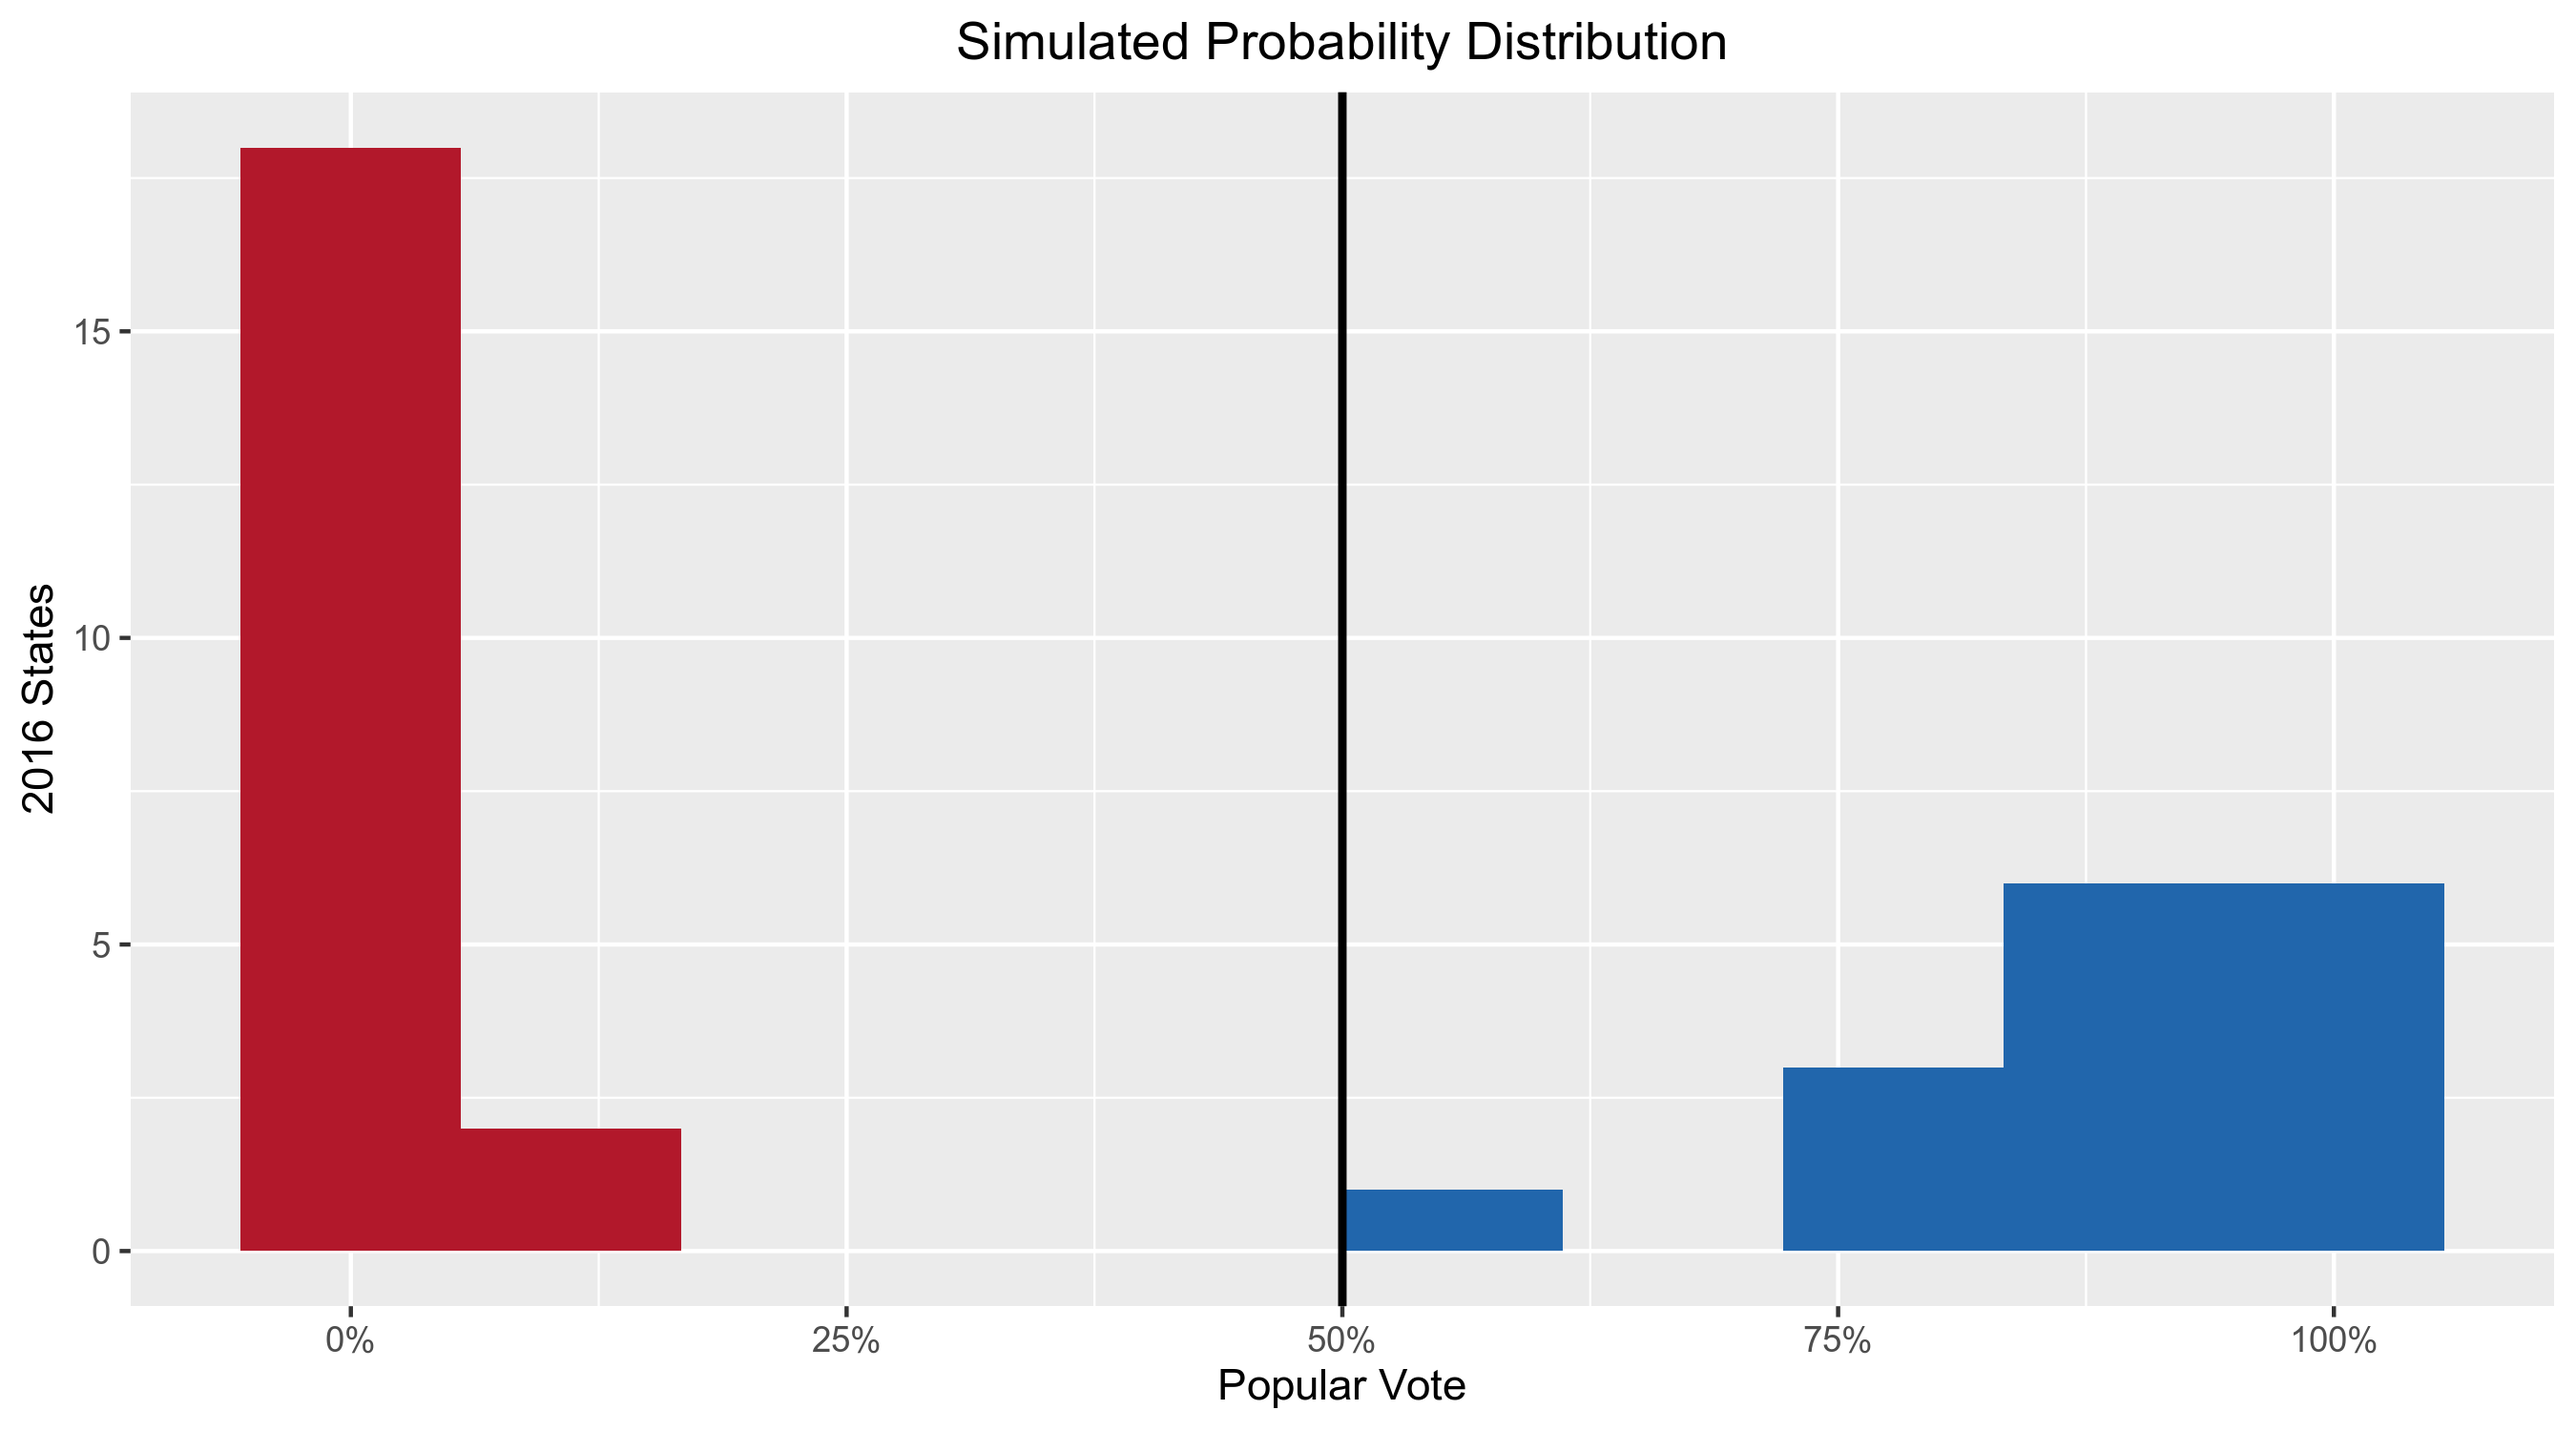
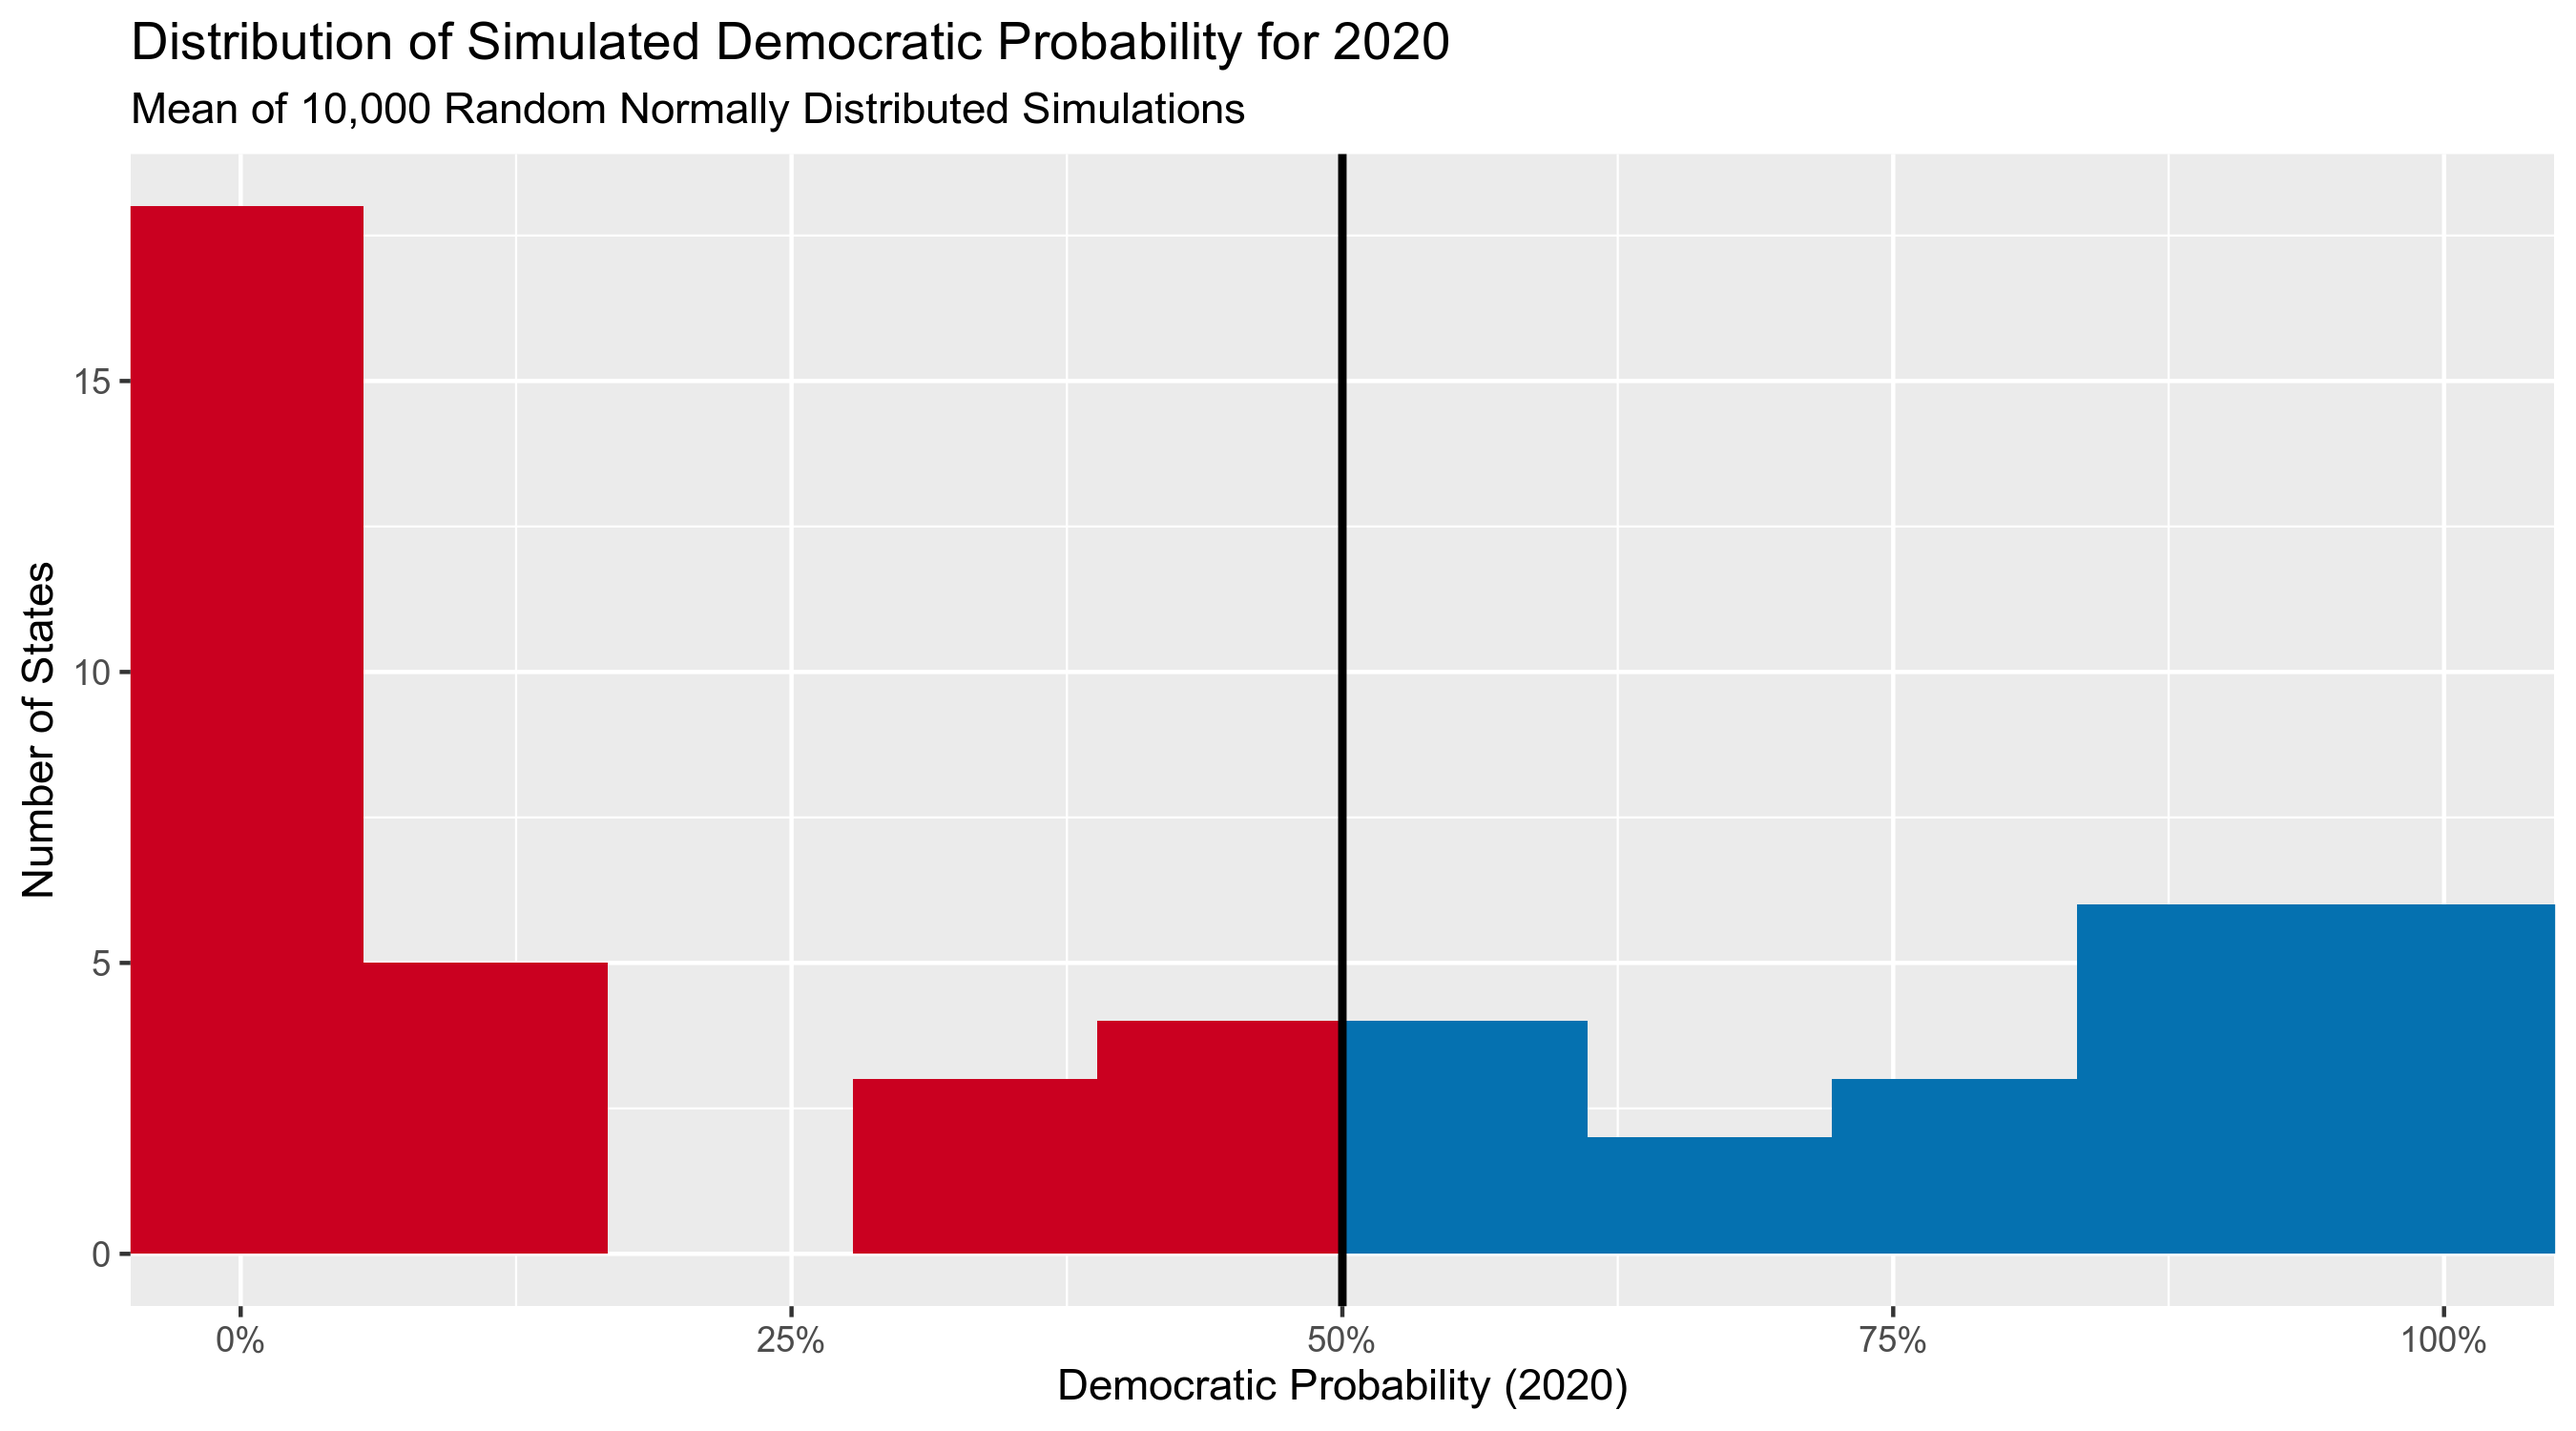
Use MIT past and NARA votes

diff --git a/docs/sim_college.md b/docs/sim_college.md
@@ -97,12 +97,19 @@ democratic share of the major party votes. If that share is greater than
 
 ``` r
 market_prices <-
+  # query predictit api
   fromJSON(txt = "https://www.predictit.org/api/marketdata/all/") %>%
+  # use markets tree
   use_series(markets) %>%
+  # keep only battleground markets
   filter(str_detect(name, "Which party will win (.*) in the 2020 presidential election?")) %>%
+  # expose contracts nests has new rows
   unnest(contracts, names_repair = "unique") %>%
+  # keep only dem contracts
   filter(shortName...11 == "Democratic") %>%
+  # select state and latest price
   select(state = shortName...3, price = lastTradePrice) %>%
+  # extract state abbreviation from question
   mutate(state = str_extract(state, "[:upper:]{2}")) %>% 
   arrange(price)
 ```
@@ -129,17 +136,24 @@ Presidential election since 1976. This file can be read using
 `dataverse::get_file()`.
 
 ``` r
-past_elections <- get_file(
+past_elections <-
+  # get MIT dataverse file
+  get_file(
     file = "1976-2016-president.tab", 
     dataset = "doi:10.7910/DVN/42MVDX",
-  ) %>% 
+  ) %>%
+  # parse raw as data frame
   read_csv(col_types = cols()) %>% 
-  rename(votes = candidatevotes) %>% 
-  filter(party %in% c("democrat", "republican"), writein == FALSE) %>% 
+  rename(votes = candidatevotes) %>%
+  # keep only major candidates
+  filter(writein == FALSE) %>% 
+  filter(party %in% c("democrat", "republican")) %>% 
+  # calculate dem share of major vote
   group_by(year, state_po) %>% 
-  mutate(prop = votes/sum(votes)) %>%
+  mutate(share = votes/sum(votes)) %>%
+  # keep only dems
   filter(party == "democrat") %>% 
-  select(year, state = state_po, prop)
+  select(year, state = state_po, share)
 
 # MIT Election Data and Science Lab, 2017, "1976-2016-president.tab"
 # https://doi.org/10.7910/DVN/42MVDX/MFU99O, Harvard Dataverse, V5
@@ -152,12 +166,13 @@ party’s share of the vote in the last 11 elections.
 
 ``` r
 state_sd <- past_elections %>% 
+  # calculate std dev
   group_by(state) %>% 
-  summarize(sd = sd(prop))
+  summarize(sd = sd(share))
 ```
 
 ``` r
-left_join(usa_map, state_sd) %>%
+left_join(usa_map, state_sd, by = "state") %>%
   filter(state != "DC") %>% 
   ggplot(mapping = aes(x = long, y = lat, group = group)) +
   geom_polygon(color = "black", mapping = aes(fill = sd)) +
@@ -184,7 +199,8 @@ left_join(usa_map, state_sd) %>%
 ![](sim_college_files/figure-gfm/map_sd-1.png)<!-- -->
 
 ``` r
-last_election <- past_elections %>% 
+last_election <- past_elections %>%
+  # keep only last election
   filter(year == 2016)
 ```
 
@@ -206,10 +222,13 @@ those states *with* 2020 markets and those without.
 ![](sim_college_files/figure-gfm/vote_range-1.png)<!-- -->
 
 ``` r
-last_election <- last_election %>% 
+last_election <- last_election %>%
+  # add state std devs
   left_join(state_sd) %>%
-  rowwise() %>% 
-  mutate(prob = mean(rnorm(10000, prop, sd) > 0.50))
+  rowwise() %>%
+  # calculate win rate of simulations
+  mutate(prob = mean(rnorm(10000, share, sd) > 0.50)) %>% 
+  ungroup()
 ```
 
 If we visualize this process, we can see how the 2016 result and a
@@ -234,20 +253,25 @@ simulated elections won by the democrat. Below, we see how this is done
 by simulating the Connecticut election 60 times.
 
 ``` r
-(ex_prop <- last_election$prop[last_election$state == "CT"])
+# find last share
+(ex_share <- last_election$share[last_election$state == "CT"])
 #> [1] 0.5714155
+# find std dev
 (ex_sd <- last_election$sd[last_election$state == "CT"])
 #> [1] 0.07423502
-(ex_sims <- round(x = rnorm(n = 60, mean = ex_prop, sd = ex_sd), digits = 2))
+# simulate 60 elections
+(ex_sims <- round(x = rnorm(n = 60, mean = ex_share, sd = ex_sd), digits = 2))
 #>  [1] 0.56 0.62 0.63 0.62 0.53 0.59 0.55 0.60 0.43 0.62 0.54 0.58 0.61 0.62 0.48 0.63 0.58 0.64 0.62
 #> [20] 0.69 0.50 0.59 0.42 0.58 0.63 0.55 0.50 0.71 0.57 0.49 0.66 0.52 0.56 0.46 0.60 0.59 0.58 0.55
 #> [39] 0.46 0.69 0.54 0.63 0.67 0.52 0.58 0.65 0.55 0.68 0.56 0.50 0.57 0.48 0.54 0.59 0.49 0.76 0.71
 #> [58] 0.54 0.51 0.55
+# check for win each each
 (ex_wins <- ex_sims > 0.5)
 #>  [1]  TRUE  TRUE  TRUE  TRUE  TRUE  TRUE  TRUE  TRUE FALSE  TRUE  TRUE  TRUE  TRUE  TRUE FALSE
 #> [16]  TRUE  TRUE  TRUE  TRUE  TRUE FALSE  TRUE FALSE  TRUE  TRUE  TRUE FALSE  TRUE  TRUE FALSE
 #> [31]  TRUE  TRUE  TRUE FALSE  TRUE  TRUE  TRUE  TRUE FALSE  TRUE  TRUE  TRUE  TRUE  TRUE  TRUE
 #> [46]  TRUE  TRUE  TRUE  TRUE FALSE  TRUE FALSE  TRUE  TRUE FALSE  TRUE  TRUE  TRUE  TRUE  TRUE
+# calculate percent of wins
 mean(ex_wins)
 #> [1] 0.8166667
 ```
@@ -272,13 +296,15 @@ accurate method to generate probabilistic predictions. We will uses
 these market prices over our simulated elections where we have them.
 
 ``` r
-ec <- last_election %>% 
-  left_join(market_prices, by = "state") %>% 
+state_probs <- last_election %>%
+  # add market prices
+  left_join(market_prices, by = "state") %>%
+  # combine probabilities
   mutate(
-    dem = coalesce(price, prob),
+    prob = coalesce(price, prob),
     market = !is.na(price)
-  ) %>% 
-  select(state, dem, market)
+  ) %>%
+  select(state, share, sd, prob, market)
 ```
 
 ![](sim_college_files/figure-gfm/sim_relationship_market-1.png)<!-- -->
@@ -287,18 +313,43 @@ ec <- last_election %>%
 
 ## Electoral College
 
+To simulate the election we of course need to know how many electoral
+votes are up for grabs in each state. We can get this number directly
+from the National Archive and Records Administration, the federal agency
+tasked with overseeing the electoral college.
+
 ``` r
 college_votes <- 
+  # read archive.gov website
   read_html("https://www.archives.gov/federal-register/electoral-college/allocation.html") %>% 
   html_nodes("table") %>% 
+  # extract table as tibble
   html_table(fill = TRUE) %>% 
-  extract2(5) %>% as_tibble() %>% 
+  extract2(5) %>% as_tibble() %>%
+  # format for join
   set_names(c("state", "votes")) %>% 
   mutate(state = abrev_state(state))
 ```
 
+We can then add these votes to our data frame of probabilities.
+
 ``` r
-ec <- left_join(ec, college_votes)
+college_probs <- left_join(state_probs, college_votes, by = "state")
+arrange(college_probs, desc(votes))
+#> # A tibble: 51 x 6
+#>    state share     sd  prob market votes
+#>    <chr> <dbl>  <dbl> <dbl> <lgl>  <int>
+#>  1 CA    0.661 0.0838 0.974 FALSE     55
+#>  2 TX    0.453 0.0450 0.22  TRUE      38
+#>  3 FL    0.494 0.0614 0.43  TRUE      29
+#>  4 NY    0.634 0.0701 0.973 FALSE     29
+#>  5 IL    0.590 0.0640 0.924 FALSE     20
+#>  6 PA    0.496 0.0334 0.63  TRUE      20
+#>  7 OH    0.457 0.0405 0.36  TRUE      18
+#>  8 GA    0.473 0.0809 0.26  TRUE      16
+#>  9 MI    0.499 0.0545 0.7   TRUE      16
+#> 10 NC    0.481 0.0479 0.45  TRUE      15
+#> # … with 41 more rows
 ```
 
 To simulate the entire electoral college, we simple have to perform the
@@ -317,24 +368,36 @@ sim_race <- function(dem = 1-rep, rep = 1-dem) {
 }
 ```
 
-With this function, we can simulate every state in the country and count
-the number of electoral college votes won by each party.
+If we call this function 100 times on a race with a Democratic
+probability of 75% then we should get 75 democratic victories. The more
+times we run this function, the closer to 75% of the races the Democrat
+will win.
 
 ``` r
-sim1 <- map_lgl(ec$dem, sim_race)
-sum(ec$votes[sim1])
-#> [1] 284
+ex_sim <- rep(NA, 100)
+for (i in 1:100) {
+  ex_sim[i] <- sim_race(dem = 0.75)
+}
+ex_sim
+#>   [1] FALSE FALSE  TRUE  TRUE  TRUE  TRUE  TRUE  TRUE  TRUE  TRUE  TRUE  TRUE  TRUE  TRUE  TRUE
+#>  [16]  TRUE  TRUE  TRUE FALSE  TRUE  TRUE FALSE  TRUE  TRUE  TRUE FALSE  TRUE  TRUE FALSE  TRUE
+#>  [31]  TRUE  TRUE FALSE  TRUE  TRUE  TRUE  TRUE  TRUE  TRUE  TRUE  TRUE  TRUE  TRUE  TRUE  TRUE
+#>  [46] FALSE  TRUE  TRUE FALSE FALSE  TRUE FALSE  TRUE  TRUE  TRUE  TRUE  TRUE  TRUE  TRUE FALSE
+#>  [61]  TRUE  TRUE  TRUE  TRUE FALSE  TRUE  TRUE  TRUE  TRUE  TRUE  TRUE  TRUE FALSE  TRUE FALSE
+#>  [76]  TRUE  TRUE  TRUE  TRUE  TRUE FALSE  TRUE FALSE  TRUE  TRUE  TRUE  TRUE  TRUE  TRUE  TRUE
+#>  [91]  TRUE  TRUE  TRUE  TRUE  TRUE  TRUE  TRUE  TRUE  TRUE  TRUE
+mean(ex_sim)
+#> [1] 0.83
 ```
+
+With this function, we can also simulate every state in the country at
+once and count the number of electoral college votes won by each party.
 
 ``` r
-sim1_result <- if_else(
-  condition = sum(ec$votes[sim1]) > 269,
-  true = "the Democrats did win",
-  false = "the Democrats did not win"
-)
+ex_sim <- map_lgl(college_probs$prob, sim_race)
+sum(college_probs$votes[ex_sim])
+#> [1] 292
 ```
-
-In the above election, the Democrats did win.
 
 To best understand the *range* of possible outcomes, we can perform the
 same simulation many times.
@@ -343,23 +406,25 @@ same simulation many times.
 n <- 10000
 sims <- rep(NA, n)
 for (i in seq(1, n)) {
-  state_outcomes <- map_lgl(ec$dem, sim_race)
-  dem_total <- sum(ec$votes[state_outcomes])
+  state_outcomes <- map_lgl(college_probs$prob, sim_race)
+  dem_total <- sum(college_probs$votes[state_outcomes])
   sims[i] <- dem_total
 }
 ```
 
 From the summary below, you can see a picture of a very close race with
 the Democrats holding a slight lead. Of our 10,000 simulations, the
-Democrats won 74.2% with the modal outcome being a victory of 289
+Democrats won 73.6% with the modal outcome being a victory of 308
 electoral college votes.
 
 ``` r
+# summary of simulations
 summary(sims)
 #>    Min. 1st Qu.  Median    Mean 3rd Qu.    Max. 
-#>   151.0   269.0   291.0   290.8   313.0   411.0
+#>     136     268     291     291     313     420
+# probability of dem victory
 mean(sims > 269)
-#> [1] 0.7416
+#> [1] 0.736
 ```
 
 ![](sim_college_files/figure-gfm/sim_hist-1.png)<!-- -->
